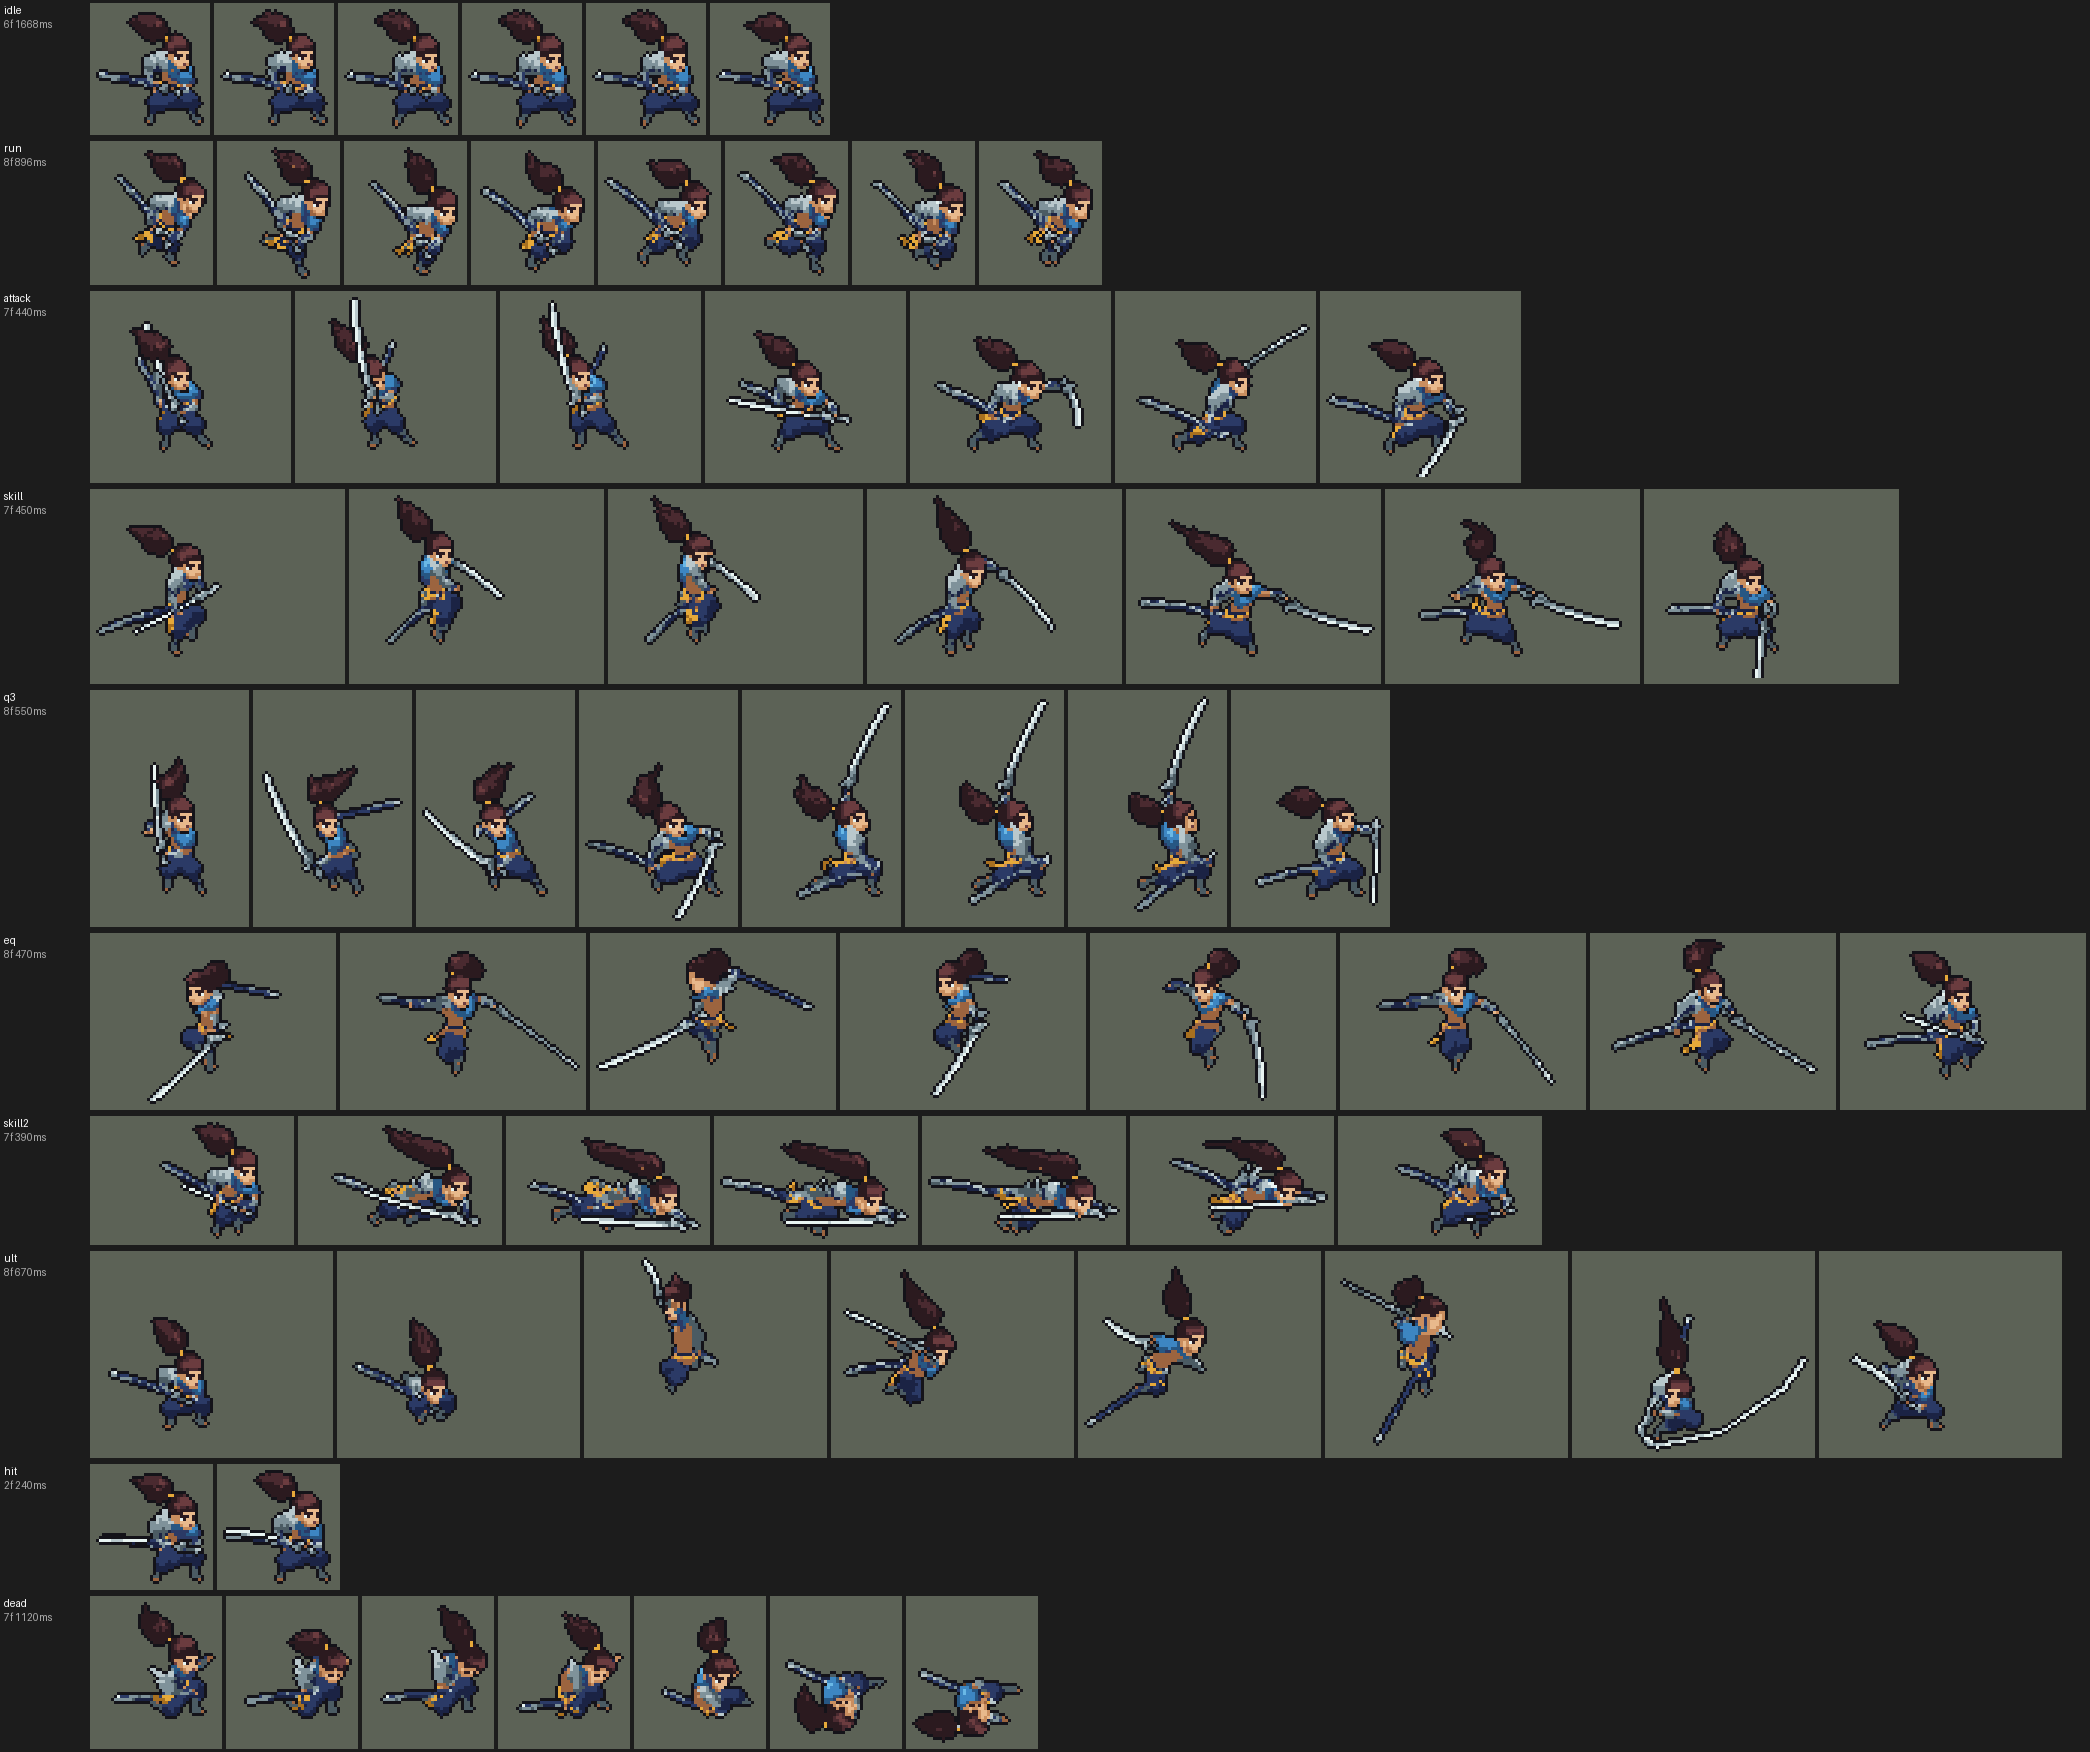
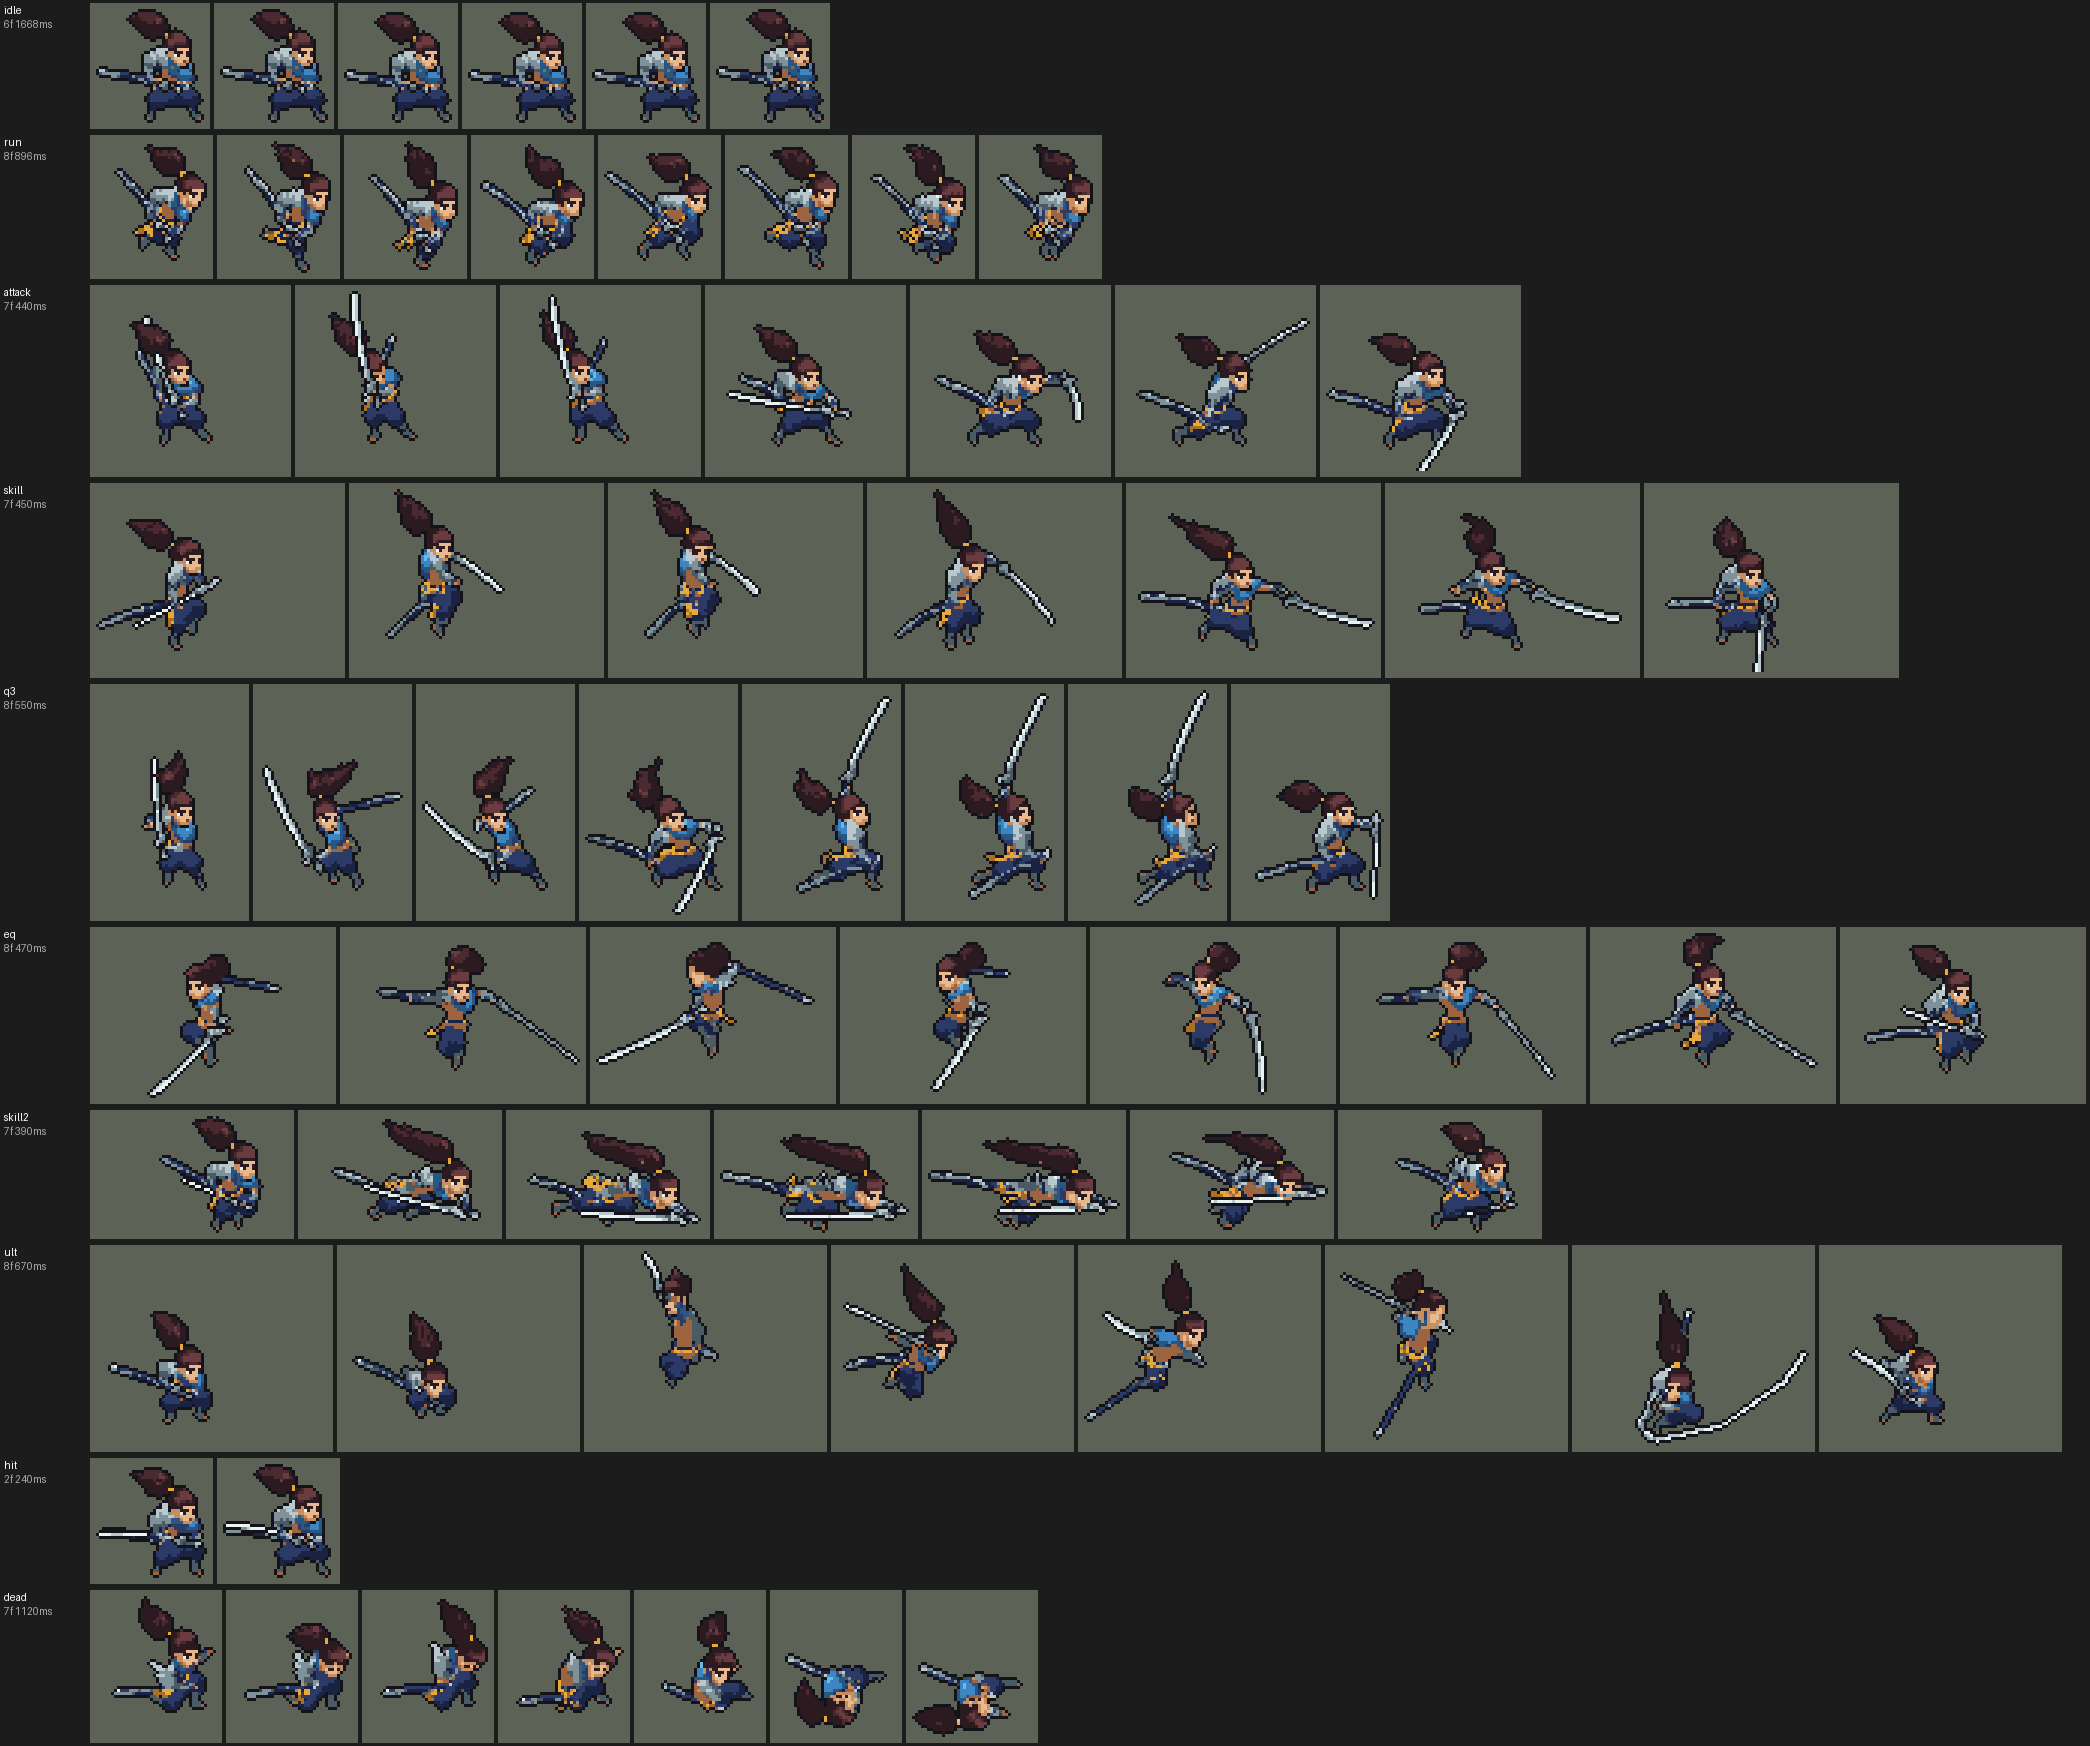
Yasuo: the idle breathes with one drawing, the face never changes
Holding frame 3 still left the face changing between the up and down frames:
every frame's head is voted anew. import_native gains BOB: the idle shows
frame 1 in all six slots and moves its upper body (everything above the belt)
down a row in slots 3-5, so the face is the same drawing throughout and only
rides the breath. Retouch follows; previews rebuilt.

diff --git a/tools/art/import_native.py b/tools/art/import_native.py
@@ -45,9 +45,13 @@ HEAD_ROWS = 12                  # idle frame 1's top rows: the head
 SURE = 0.9                      # share of the head's pixels that must match exactly
 STEADY = ("idle", "run")
 ORDER = {("lux", "idle"): [0, 1, 2, 3, 5, 4],
-         # League leans his upper body a square forward in idle 4-5 and back in 6: the face swung sideways
-         # (the user). Frame 3 stands in for 4 and 5, so he only breathes up and down.
-         ("yasuo", "idle"): [0, 1, 2, 2, 2, 5]}
+         # League leans his upper body a square forward in idle 4-5 and back in 6, and every frame's head
+         # is voted anew, so the face swung and changed shape as he breathed (the user). Frame 1 in every
+         # slot, breathing through BOB instead.
+         ("yasuo", "idle"): [0, 0, 0, 0, 0, 0]}
+# (hero, tag): (y, slots) - in those slots everything at or above pivot row y moves down a row (the row under
+# it is covered): one frame breathing, the face the same drawing throughout
+BOB = {("yasuo", "idle"): (-2, [2, 3, 4])}
 CROWN = {"leesin"}              # heroes whose head template starts at the crown (a braid stands above it)
 
 
@@ -179,6 +183,21 @@ def touch_up(hero, sheet):
     return n
 
 
+def breathe(hero, sheet):
+    """BOB: move the upper body of the listed slots down a row (after the retouch, which is drawn on the frame
+    before it moves)."""
+    for (h, tag), (y0, slots) in BOB.items():
+        if h != hero or tag not in sheet:
+            continue
+        for k in slots:
+            a, ms = sheet[tag][k]
+            cut = a.shape[0] // 2 + y0 + 1           # array rows before `cut` sit at pivot rows <= y0
+            b = a.copy()
+            b[1:cut + 1] = a[0:cut]
+            b[0] = 0
+            sheet[tag][k] = (b, ms)
+
+
 def flatness(frames):
     """Share of opaque pixels whose right neighbour is opaque and the same colour."""
     same = n = 0
@@ -221,6 +240,7 @@ def main():
         touched = touch_up(hero, sheet)
         if touched:
             print(f"{hero}_retouch.json: {touched} pixels retouched")
+        breathe(hero, sheet)
         w, h = G.write_sheet(os.path.join(MOD, "champions", f"league_{hero}"), sheet)
         frames = [a for fr in sheet.values() for a, _ in fr]
         colours = len(np.unique(np.concatenate([a[a[..., 3] > 0][:, :3] for a in frames]), axis=0))

diff --git a/README.md b/README.md
@@ -20,7 +20,7 @@
 
 ![阿木木演示：跑步、Q 绷带牵引、绝望光环和诅咒、R 木乃伊之咒、E 阿木木的愤怒、普攻](docs/preview/league_amumu_showcase.gif)
 
-![亚索演示：跑步、普攻触发剑意护盾、Q 斩钢闪两次叠出旋风、Q3 旋风击飞两人、R 狂风绝息斩、E 踏前斩接 EQ 环形斩](docs/preview/league_yasuo_showcase.gif?v=r8)
+![亚索演示：跑步、普攻触发剑意护盾、Q 斩钢闪两次叠出旋风、Q3 旋风击飞两人、R 狂风绝息斩、E 踏前斩接 EQ 环形斩](docs/preview/league_yasuo_showcase.gif?v=r9)
 
 ![金克丝演示：机枪砰砰和 W 震荡电磁波击杀德莱厄斯、罪恶快感、R 超究极死神飞弹、E 嚼火者手雷咬住盖伦、鱼骨头火箭](docs/preview/league_jinx_showcase.gif)
 
@@ -301,7 +301,7 @@ python tools/art/preview_yasuo.py
 - 动作图：用英雄联盟动画重新上色（`restyle_native.py`），这次加了三样：
   - 蓝布、深蓝裤子、金绳、皮肤、棕色皮革、钢铁按色相、饱和度、亮度分类投色（`materials`），原来只认深红布、皮肤和钢铁。原版的暗部很暗：胸口皮肤亮度只有 0.27、阴影里的金绳 0.13–0.36，所以皮肤从 0.1 算起，金色按色相认、不看亮度。
   - 马尾单独成一个部位（`native_pose.py` 的 `hair_part`），每帧跟着原版动画甩。
-  - 头：第一版每帧贴待机时的造型头，跑步低头、EQ 转身、R、死亡躺下时头和身体对不上，用户指出后改成头也按原版逐帧取色（跟着身体转、低头、躺下），脸抹成造型图的两色平涂，再把造型图整块脸（额头、粗眉、眼睛、嘴，6×6 格）贴到每帧看得见的脸上：远眼贴着脸的前缘，朝左时镜像，背对镜头时不贴（`native_pose.py` 的 `face_track` 记下每帧脸的位置和朝向）。只贴眉眼几格时，刘海压住眉毛、嘴落到脸颊边上，用户觉得眼睛和嘴都怪。`features` 另有三项：`neck`（离脸两格内、眼睛以下的身体皮肤改成领巾色），`trim_front`（眼睛上方和下面三行里伸出脸前沿的那一列剪掉、重新描边：原版刘海在待机时从额头右上角凸出一块，待机第 3 帧下巴也鼓出一格，用户说身体一晃脸就怪；头发本来就盖在脸前的帧不剪，免得剪出缺口），`hair_above`（刘海上方露出的一条额头皮肤改成最深的发色，和头顶原有的边一致，不再在呼吸时闪出一条浅色）。待机时英雄联盟原版第 4、5 帧上身前倾 1 格、第 6 帧再回来，脸跟着左右摆，用户觉得怪：`import_native.py` 的 `ORDER` 让第 4、5 帧也用第 3 帧，呼吸时只上下起伏。
+  - 头：第一版每帧贴待机时的造型头，跑步低头、EQ 转身、R、死亡躺下时头和身体对不上，用户指出后改成头也按原版逐帧取色（跟着身体转、低头、躺下），脸抹成造型图的两色平涂，再把造型图整块脸（额头、粗眉、眼睛、嘴，6×6 格）贴到每帧看得见的脸上：远眼贴着脸的前缘，朝左时镜像，背对镜头时不贴（`native_pose.py` 的 `face_track` 记下每帧脸的位置和朝向）。只贴眉眼几格时，刘海压住眉毛、嘴落到脸颊边上，用户觉得眼睛和嘴都怪。`features` 另有三项：`neck`（离脸两格内、眼睛以下的身体皮肤改成领巾色），`trim_front`（眼睛上方和下面三行里伸出脸前沿的那一列剪掉、重新描边：原版刘海在待机时从额头右上角凸出一块，待机第 3 帧下巴也鼓出一格，用户说身体一晃脸就怪；头发本来就盖在脸前的帧不剪，免得剪出缺口），`hair_above`（刘海上方露出的一条额头皮肤改成最深的发色，和头顶原有的边一致，不再在呼吸时闪出一条浅色）。待机时英雄联盟原版第 4、5 帧上身前倾 1 格、第 6 帧再回来，而且每帧的头都是重新取色的，呼吸时脸跟着左右摆、还会变形，用户觉得怪：`import_native.py` 的 `ORDER` 让待机 6 帧都用第 1 帧，新加的 `BOB` 在第 3–5 帧把腰带以上的上半身整体下移 1 格，脸始终是同一张。
   - 自动贴不好的 17 帧逐格手修（46 格）：普攻第 2 帧低头、死亡 2–4 帧画向下的眼线，死亡 6–7 帧躺平画闭眼，Q3 第 6–7 帧侧脸在前缘补暗褐色的嘴（第 7 帧脸转得太偏、整块贴不上，还补了眉和眼），待机 6 帧的金发箍统一成 2 格；大招收招和 E 冲刺收招的蹲姿（R 第 7–8 帧、E 第 7 帧）把下巴收进领巾：身体缩小后头伸出身体外，下半张脸像要从头上脱出来（用户说像“脱壳”）。记在 [`native/yasuo_retouch.json`](assets/source/native/yasuo_retouch.json)，导入时套用。
   - 死亡动画里拔出来的刀没有动画轨道，会竖在身边，死亡动作不画这把刀（`hide`）；腰绳的两根绳尾缩到 0.6 倍，跑动时不再甩出一大片金色。
 - 特效用 Codex 画的 11 张：`import_yasuo.py --raw` 把原始图（半透明、格子比例不对）转成原尺寸条，再按技能范围定大小：Q 突刺 45 px 长，旋风 24 px 宽，EQ 的圈 50 px 宽（半径 25000，画一半大再放大 2 倍）。
